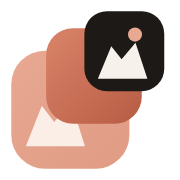
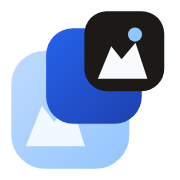
Replace the coral accent with blue on a cool background
Swap the peach palette and logo tiles for blue, and use a neutral slate page so the mark and controls stay readable.

diff --git a/index.html b/index.html
@@ -11,7 +11,7 @@
   <link rel="icon" href="assets/favicon.ico" sizes="any">
   <link rel="apple-touch-icon" href="assets/apple-touch-icon.png">
   <link rel="manifest" href="site.webmanifest">
-  <meta name="theme-color" content="#F6F1EA">
+  <meta name="theme-color" content="#F8FAFC">
   <meta property="og:type" content="website">
   <meta property="og:site_name" content="ImgsCompressor">
   <meta property="og:title" content="ImgsCompressor – Free Image Compressor to Exact KB (20KB, 30KB, 50KB, 100KB)">
@@ -27,18 +27,18 @@
   <meta name="twitter:image" content="https://waqar3oo.github.io/imgscompressor/og-image.png">
   <style>
     :root {
-      --bg: #F6F1EA;
-      --paper: #FFFCF7;
+      --bg: #F8FAFC;
+      --paper: #FFFFFF;
       --ink: #1C1916;
       --muted: #6B645C;
-      --line: #E6DDD3;
-      --line-strong: #D9CEC2;
-      --accent: #D9846A;
-      --accent-2: #B85C44;
-      --accent-soft: #F8E5DC;
-      --accent-ring: #EBC4B5;
+      --line: #E2E8F0;
+      --line-strong: #CBD5E1;
+      --accent: #2563EB;
+      --accent-2: #1E40AF;
+      --accent-soft: #DBEAFE;
+      --accent-ring: #93C5FD;
       --primary: #1C1916;
-      --chip: #EFE8DF;
+      --chip: #F1F5F9;
       --ok: #3E8A5E;
       --ok-bg: #E6F3EB;
       --ok-ring: #C5E3D0;
@@ -127,7 +127,7 @@
       gap: 6px;
       background: var(--accent-soft);
       color: var(--ink);
-      border: 1px solid var(--accent-ring);
+      border: 1px solid var(--accent);
       border-radius: 999px;
       padding: 4px 10px 4px 8px;
       font-size: 12px;
@@ -173,7 +173,7 @@
     .step.done .num { background: var(--primary); color: var(--paper); border-color: var(--primary); }
     .step.current { color: var(--ink); }
     .step.current .num {
-      background: var(--accent);
+      background: var(--accent-soft);
       color: var(--ink);
       border-color: var(--accent-2);
       box-shadow: 0 0 0 3px var(--accent-soft);
@@ -207,12 +207,12 @@
       position: relative;
       min-width: 0;
       min-height: 0;
-      background-color: #EDE6DC;
+      background-color: #F1F5F9;
       background-image:
-        linear-gradient(45deg, #E3DBD1 25%, transparent 25%),
-        linear-gradient(-45deg, #E3DBD1 25%, transparent 25%),
-        linear-gradient(45deg, transparent 75%, #E3DBD1 75%),
-        linear-gradient(-45deg, transparent 75%, #E3DBD1 75%);
+        linear-gradient(45deg, #E2E8F0 25%, transparent 25%),
+        linear-gradient(-45deg, #E2E8F0 25%, transparent 25%),
+        linear-gradient(45deg, transparent 75%, #E2E8F0 75%),
+        linear-gradient(-45deg, transparent 75%, #E2E8F0 75%);
       background-size: 16px 16px;
       background-position: 0 0, 0 8px, 8px -8px, -8px 0;
       overflow: hidden;
@@ -222,7 +222,7 @@
       inset: 18px;
       border: 1.5px dashed var(--line-strong);
       border-radius: 20px;
-      background: rgba(255, 252, 247, 0.78);
+      background: rgba(255, 255, 255, 0.78);
       display: flex;
       flex-direction: column;
       align-items: center;
@@ -605,15 +605,15 @@
       <div class="brand">
         <svg class="logo" viewBox="0 0 32 32" width="36" height="36" aria-hidden="true">
           <defs>
-            <linearGradient id="h-cg" x1="0%" y1="0%" x2="100%" y2="100%"><stop offset="0%" stop-color="#E8A892"/><stop offset="100%" stop-color="#E09B84"/></linearGradient>
-            <linearGradient id="hm-cg" x1="0%" y1="0%" x2="100%" y2="100%"><stop offset="0%" stop-color="#D9846A"/><stop offset="100%" stop-color="#B85C44"/></linearGradient>
+            <linearGradient id="h-cg" x1="0%" y1="0%" x2="100%" y2="100%"><stop offset="0%" stop-color="#BFDBFE"/><stop offset="100%" stop-color="#93C5FD"/></linearGradient>
+            <linearGradient id="hm-cg" x1="0%" y1="0%" x2="100%" y2="100%"><stop offset="0%" stop-color="#2563EB"/><stop offset="100%" stop-color="#1E40AF"/></linearGradient>
           </defs>
           <rect x="2.0" y="9.0" width="21.0" height="21.0" rx="6.0" fill="url(#h-cg)"/>
-          <path d="M 4.60,26.00 L 7.43,18.80 L 9.64,21.68 L 12.58,18.00 L 15.10,26.00 Z" fill="#FFFCF7" fill-opacity="0.85"/>
+          <path d="M 4.60,26.00 L 7.43,18.80 L 9.64,21.68 L 12.58,18.00 L 15.10,26.00 Z" fill="#FFFFFF" fill-opacity="0.85"/>
           <rect x="8.2" y="5.0" width="17.0" height="17.0" rx="4.8" fill="url(#hm-cg)"/>
           <rect x="15.0" y="2.0" width="14.2" height="14.2" rx="4.0" fill="#1C1916"/>
-          <circle cx="24.0" cy="6.15" r="1.25" fill="#E8A892"/>
-          <path d="M 17.40,14.00 L 19.78,8.24 L 21.62,10.54 L 24.09,7.60 L 26.20,14.00 Z" fill="#F6F1EA"/>
+          <circle cx="24.0" cy="6.15" r="1.25" fill="#93C5FD"/>
+          <path d="M 17.40,14.00 L 19.78,8.24 L 21.62,10.54 L 24.09,7.60 L 26.20,14.00 Z" fill="#F8FAFC"/>
         </svg>
         <div>
           <h1><span class="w-imgs">Imgs</span><span class="w-rest">Compressor</span></h1>
